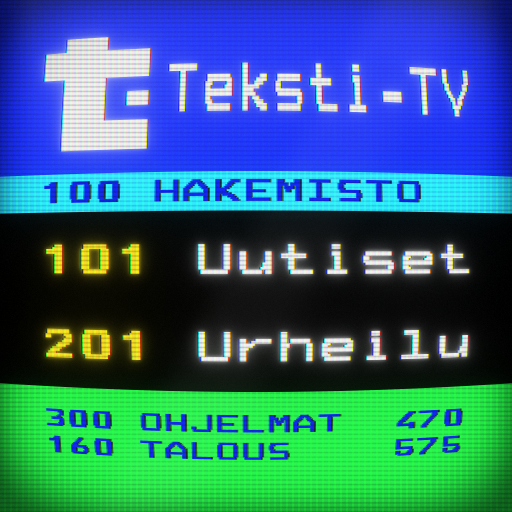
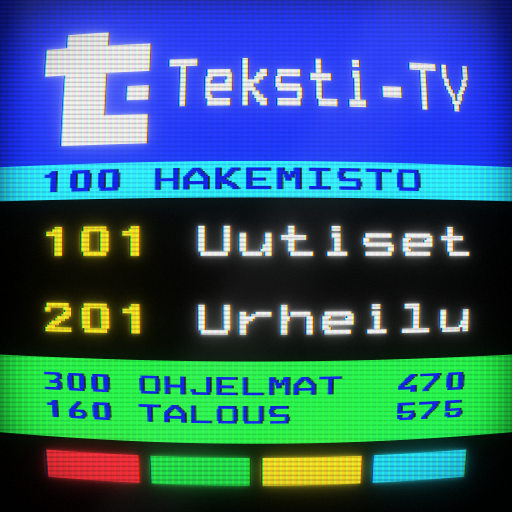
Guide re-measures its targets when opened (fixes positions when started from settings)

diff --git a/src/components/home/onboarding.tsx b/src/components/home/onboarding.tsx
@@ -3,6 +3,7 @@ import React, {
   PropsWithChildren,
   useCallback,
   useContext,
+  useEffect,
   useRef,
   useState,
 } from "react";
@@ -21,10 +22,13 @@ export type TargetId =
 const CoachContext = createContext<{
   rects: Partial<Record<TargetId, Rect>>;
   setRect: (id: TargetId, rect: Rect) => void;
-}>({ rects: {}, setRect: () => {} });
+  /** Measure functions of the targets on screen. */
+  measurers: React.MutableRefObject<Map<TargetId, () => void>>;
+}>({ rects: {}, setRect: () => {}, measurers: { current: new Map() } });
 
 export const CoachProvider: React.FC<PropsWithChildren> = ({ children }) => {
   const [rects, setRects] = useState<Partial<Record<TargetId, Rect>>>({});
+  const measurers = useRef(new Map<TargetId, () => void>());
   const setRect = useCallback((id: TargetId, rect: Rect) => {
     setRects((r) => {
       const old = r[id];
@@ -41,7 +45,7 @@ export const CoachProvider: React.FC<PropsWithChildren> = ({ children }) => {
     });
   }, []);
   return (
-    <CoachContext.Provider value={{ rects, setRect }}>
+    <CoachContext.Provider value={{ rects, setRect, measurers }}>
       {children}
     </CoachContext.Provider>
   );
@@ -49,7 +53,7 @@ export const CoachProvider: React.FC<PropsWithChildren> = ({ children }) => {
 
 /** Lets the guide find an element on screen. */
 export const useCoachTarget = (id: TargetId) => {
-  const { setRect } = useContext(CoachContext);
+  const { setRect, measurers } = useContext(CoachContext);
   const ref = useRef<View>(null);
   const onLayout = useCallback(() => {
     // Wait a frame so the window position is final.
@@ -59,6 +63,17 @@ export const useCoachTarget = (id: TargetId) => {
       ),
     );
   }, [id, setRect]);
+  // The guide re-measures when it opens: a layout measured while another
+  // screen was on top (settings) can be off.
+  useEffect(() => {
+    const map = measurers.current;
+    map.set(id, onLayout);
+    return () => {
+      if (map.get(id) === onLayout) {
+        map.delete(id);
+      }
+    };
+  }, [id, onLayout, measurers]);
   return { ref, onLayout };
 };
 
@@ -97,14 +112,33 @@ export const STEPS: { target: TargetId; title: string; text: string }[] = [
 
 /** Three-step first-run guide. Steps whose target isn't on screen are skipped. */
 export const Onboarding: React.FC<{ onDone: () => void }> = ({ onDone }) => {
-  const { rects } = useContext(CoachContext);
+  const { rects, measurers } = useContext(CoachContext);
   const [step, setStep] = useState(0);
+
   const [origin, setOrigin] = useState<{
     x: number;
     y: number;
     height: number;
   } | null>(null);
   const rootRef = useRef<View>(null);
+
+  // Measure everything again now, and once the screen has settled (after a
+  // screen transition, e.g. when started from settings).
+  useEffect(() => {
+    const all = () => {
+      measurers.current.forEach((measure) => measure());
+      rootRef.current?.measureInWindow((x, y, _w, height) =>
+        setOrigin((o) =>
+          o && o.x === x && o.y === y && o.height === height
+            ? o
+            : { x, y, height },
+        ),
+      );
+    };
+    all();
+    const timers = [150, 450, 900].map((ms) => setTimeout(all, ms));
+    return () => timers.forEach(clearTimeout);
+  }, [measurers, step]);
 
   const steps = STEPS.filter((s) => rects[s.target]);
   const current = steps[Math.min(step, steps.length - 1)];

diff --git a/scripts/generate-icons.py b/scripts/generate-icons.py
@@ -2,7 +2,7 @@
 """Generate the app icon for iOS and Android.
 
 The icon is page 100 as people know it (blue header, cyan strip, black middle,
-green index block), drawn with Yle's own teletext glyphs and lit like a CRT:
+green index block, colour keys), drawn with Yle's own teletext glyphs and lit like a CRT:
 phosphor glow on the text, slight colour fringing, scanlines and curved glass.
 
 The glyph bitmaps in scripts/teletext-glyphs.json were taken from Yle's
@@ -35,6 +35,7 @@ CYAN = (40, 228, 255)
 GREEN = (36, 236, 70)
 WHITE = (250, 250, 250)
 YELLOW = (255, 232, 36)
+KEYS = ((255, 50, 60), (40, 235, 80), (255, 230, 40), (40, 228, 255))  # red, green, yellow, cyan
 
 # The "t:" mark from Yle's section pages, in sixels (each 1.5 wide : 1 tall).
 T_MARK = [
@@ -71,15 +72,27 @@ class Scene:
         return x + len(s) * cw
 
 
-def page(layout):
+def page(layout, dark=False):
     """layout "ios" fills the square; "android" pulls the content in to fit the
-    circular safe zone and centres it."""
+    circular safe zone and centres it.
+
+    Bands from the top: blue header, cyan strip, black sections, green index,
+    and a black strip with the four colour keys.
+
+    dark: the iOS dark-mode version. The bands sink to deep tints and the text
+    in them takes the band colour, so only the lettering and keys are lit."""
     android = layout == "android"
     s = Scene()
-    hb, cb, gb = 0.34, 0.415, 0.76
-    s.rect((-1, -1, 2, hb), BLUE)
-    s.rect((-1, hb, 2, cb), CYAN)
-    s.rect((-1, gb, 2, 2), GREEN)
+    band_blue, band_cyan, band_green = (BLUE, CYAN, GREEN) if not dark else ((5, 9, 52), (3, 30, 40), (3, 34, 12))
+    strip_text, index_text = (BLUE, BLUE) if not dark else (CYAN, GREEN)
+    band_glow = 0 if not dark else 0.7
+    if android:
+        hb, cb, gb, ge = 0.33, 0.40, 0.69, 0.80
+    else:
+        hb, cb, gb, ge = 0.32, 0.39, 0.70, 0.865
+    s.rect((-1, -1, 2, hb), band_blue)
+    s.rect((-1, hb, 2, cb), band_cyan)
+    s.rect((-1, gb, 2, ge), band_green)
     k = 0.80 if android else 1.0
 
     def left(chars, cw):
@@ -98,17 +111,27 @@ def page(layout):
     s.text(hx + 5 * mcw + gap, hy - tw, "Teksti-TV", tw, WHITE, tall=2, glow=0.5)
     # Cyan strip.
     sw = 0.058 * k
-    s.text(left(13, sw), hb + (cb - hb - sw) / 2, "100 HAKEMISTO", sw, BLUE, glow=0)
+    s.text(left(13, sw), hb + (cb - hb - sw) / 2, "100 HAKEMISTO", sw, strip_text, glow=band_glow)
     # Sections, yellow numbers and white names.
     rw = 0.078 * k
     for j, (num, name) in enumerate((("101", "Uutiset"), ("201", "Urheilu"))):
         y = cb + (gb - cb) * (0.27 + 0.48 * j) - rw / 2
         x = s.text(left(11, rw), y, num + " ", rw, YELLOW)
         s.text(x, y, name, rw, WHITE)
-    # Green index block in blue.
+    # Green index block in blue (green on dark).
     iw = 0.05 * k
+    iy = gb + ((ge - gb) - iw * 2.15) / 2 - iw * 0.08
     for j, line in enumerate(("300 OHJELMAT  470", "160 TALOUS    575")):
-        s.text(left(11, rw), gb + 0.04 + j * iw * 1.15, line, iw, BLUE, glow=0)
+        s.text(left(11, rw), iy + j * iw * 1.15, line, iw, index_text, glow=band_glow)
+    # Colour keys. On Android the row sits higher and narrower to stay in the circle.
+    if android:
+        x0, x1, y0, y1 = 0.22, 0.78, 0.835, 0.878
+    else:
+        x0, x1, y0, y1 = 0.07, 0.93, 0.895, 0.955
+    kg = 0.025 * k
+    kw = (x1 - x0 - 3 * kg) / 4
+    for i, c in enumerate(KEYS):
+        s.bits(x0 + i * (kw + kg), y0, kw, y1 - y0, np.ones((1, 1), bool), c, glow=0.9)
     return s
 
 
@@ -280,7 +303,10 @@ def layers(scene, px, view):
 
 
 def grayscale(img):
-    return img.convert("L").convert("RGB")
+    """Luminance, stretched so the brightest lettering reaches white."""
+    g = np.asarray(img.convert("L"), float)
+    g = np.clip(g / max(1.0, np.percentile(g, 99.5)) * 255, 0, 255)
+    return Image.fromarray(g.astype(np.uint8)).convert("RGB")
 
 
 def masked(img, shape):
@@ -311,14 +337,16 @@ def save(img, path):
 
 def ios():
     base = os.path.join(ROOT, "ios/TekstiTVReactNativeApp/Images.xcassets/AppIcon.appiconset")
-    img = flat(page("ios"), 1024)
-    save(img, os.path.join(base, "AppIcon-1024.png"))
-    save(grayscale(img), os.path.join(base, "AppIcon-1024-tinted.png"))
+    save(flat(page("ios"), 1024), os.path.join(base, "AppIcon-1024.png"))
+    dark = flat(page("ios", dark=True), 1024)
+    save(dark, os.path.join(base, "AppIcon-1024-dark.png"))
+    # Tinted icons are coloured by iOS from luminance: light lettering on black works best.
+    save(grayscale(dark), os.path.join(base, "AppIcon-1024-tinted.png"))
     contents = {
         "images": [
             {"filename": "AppIcon-1024.png", "idiom": "universal", "platform": "ios", "size": "1024x1024"},
             {"appearances": [{"appearance": "luminosity", "value": "dark"}],
-             "filename": "AppIcon-1024.png", "idiom": "universal", "platform": "ios", "size": "1024x1024"},
+             "filename": "AppIcon-1024-dark.png", "idiom": "universal", "platform": "ios", "size": "1024x1024"},
             {"appearances": [{"appearance": "luminosity", "value": "tinted"}],
              "filename": "AppIcon-1024-tinted.png", "idiom": "universal", "platform": "ios", "size": "1024x1024"},
         ],
